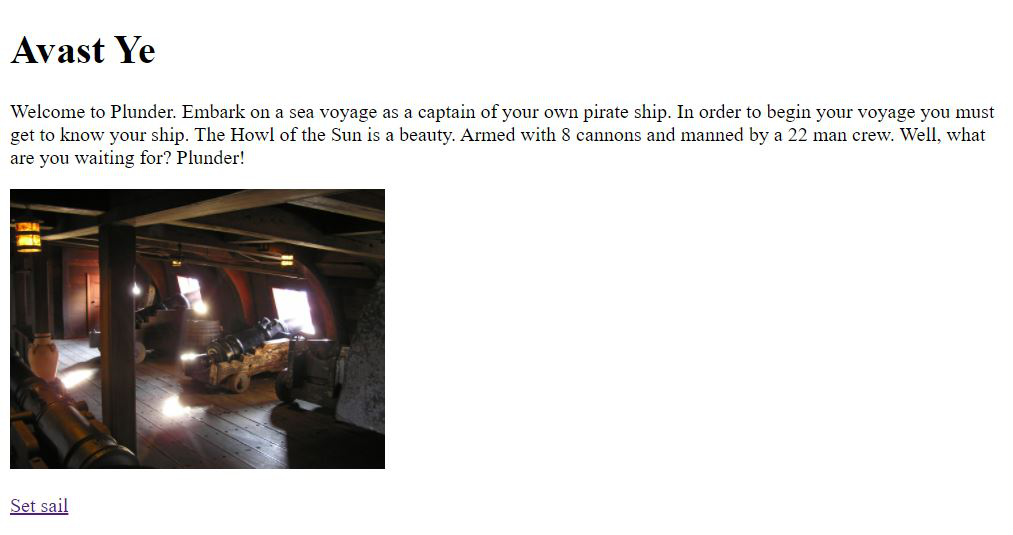
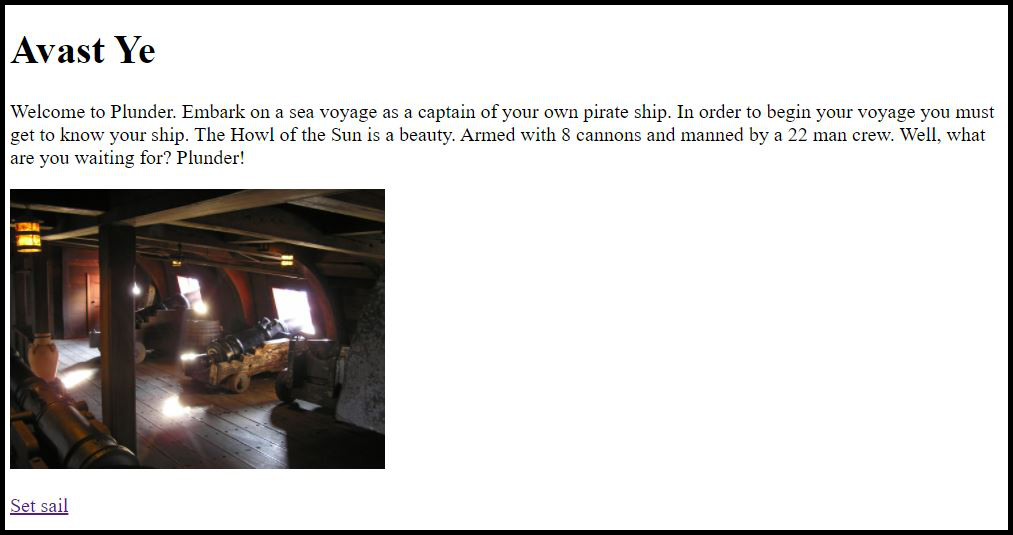
modifications to aesthetics and flow

Changed region(s): [[0.0, 0.0, 1.0, 1.0]]

diff --git a/3d.html b/3d.html
@@ -18,7 +18,7 @@
 </head>
 <body>
 
-<nav class="navbar navbar-expand-sm bg-light navbar-light">
+<nav class="navbar navbar-expand-sm bg-light navbar-light justify-content-center">
  <ul class="navbar-nav">
  	 	<li class="nav-item"><a class="nav-link" href="index.html">home</a></li>
 	<li class="nav-item"><a class="nav-link" href="glitchart.html">glitch</a></li>
@@ -32,19 +32,24 @@
 </head>
 <body>
 
+<div class="container my-5 bg-light shadow p-4 mb-4 bg-white">
+
 <h1>Extracted and Converted</h1>
 <p>Using Mineways, I extracted the build into a 3d file. Then using the Cura Ultimaker, I prepared and setup the 3d file for printing. The first draft print of the 3d sculpture utilized the Lulzbot Mini 2 3d printer, therefore I had to used the Cura Lulzbot edition. Final draft was printer using the Ultimaker 3 3d printer.
 </p>
 <p>
-<img class="img-fluid" src="images/3dlion.png" alt="3dleone" style="width:600px;">
-<img class="img-fluid" src="images/curalion.png" alt="ultimakercura" style="width:600px;">
+<img class="img-fluid" src="images/3dlion.png" alt="3dleone" style="height:300px;">
+<img class="img-fluid" src="images/curalion.png" alt="ultimakercura" style="height:300px;">
 </p>
 <h1>3d Print</h1>
 <p>After the first draft of printing, I made some adjustments and printed the final version.</p>
 <p>First Draft (Red) & Final Draft (Black).</p>
 <p>
-<img class="img-fluid" src="images/draft.jpg" alt="draft" style="width:600px;">
-<img class="img-fluid" src="images/final.jpg" alt="final" style="width:600px;">
+<img class="img-fluid" src="images/draft.jpg" alt="draft" style="height:300px;">
+<img class="img-fluid" src="images/final.jpg" alt="final" style="height:300px;">
+
+</div>
+
 </p>
 </body>
 </html>

diff --git a/glitchart.html b/glitchart.html
@@ -18,7 +18,7 @@
 </head>
 <body>
 
-<nav class="navbar navbar-expand-sm bg-light navbar-light">
+<nav class="navbar navbar-expand-sm bg-light navbar-light justify-content-center">
  <ul class="navbar-nav">
   	<li class="nav-item"><a class="nav-link" href="index.html">home</a></li>
 	<li class="nav-item"><a class="nav-link" href="glitchart.html">glitch</a></li>
@@ -32,20 +32,23 @@
 </head>
 <body>
 
+<div class="container my-5 bg-light shadow p-4 mb-4 bg-white">
+
 <h1>3 Final Glitch Art Images</h1>
 <p>Glitch images using Notepad ++ or Audacity.</p>
 <h1>Notepad ++ Glitches</h1>
 <p>Use Notepad ++ in order to modify the code of the .jpg image to create glitches into the picture. I made 2 art pieces utilizing this technique.</p>
 <p>
-<img class="img-fluid" src="images/fire.png" alt="fire" style="width:600px;">
-</p>
-<p>
-<img class="img-fluid" src="images/lake.png" alt="lake" style="width:600px;">
+<img class="img-fluid" src="images/fire.png" alt="fire" style="height:300px;">
+<img class="img-fluid" src="images/lake.png" alt="lake" style="height:300px;">
 </p>
 <h1>Audacity Glitch</h1>
 <p>Convert the .jpg file into a .raw file and import it into Audacity. Use the Audacity effects onto the .raw file then export it and convert it back into a .jpg file.</p>
 <p>
-<img class="img-fluid" src="images/treesglitch2.jpg" alt="trees" style="width:600px;">
+<img class="img-fluid" src="images/treesglitch2.jpg" alt="trees" style="height:300px;">
+
+</div>
+
 </p>
 </body>
 </html>

diff --git a/mememashup.html b/mememashup.html
@@ -18,7 +18,7 @@
 </head>
 <body>
 
-<nav class="navbar navbar-expand-sm bg-light navbar-light">
+<nav class="navbar navbar-expand-sm bg-light navbar-light justify-content-center">
  <ul class="navbar-nav">
  	<li class="nav-item"><a class="nav-link" href="index.html">home</a></li>
 	<li class="nav-item"><a class="nav-link" href="glitchart.html">glitch</a></li>
@@ -32,19 +32,24 @@
 </head>
 <body>
 
+<div class="container my-5 bg-light shadow p-4 mb-4 bg-white">
+
 <h1>Meme Mashup</h1>
 <p>Create a Meme Mashup utilizing 2 or more memes.</p>
 <h1>2 Source Memes</h1>
 <p>I used 2 memes for my Meme Mashup.</p>
 <p>Trade Deal Meme (Left Image) & I Am Altering the Deal Meme (Right Image).</p>
 <p>
-<img class="img-fluid" src="images/offer.jpg" alt="offer" style="width:300px;">
-<img class="img-fluid" src="images/vader.png" alt="vader" style="width:600px;">
+<img class="img-fluid" src="images/offer.jpg" alt="offer" style="height:300px;">
+<img class="img-fluid" src="images/vader.png" alt="vader" style="height:300px;">
 </p>
 <h1>Final Meme Mashup</h1>
 <p>Utilizing the 2 memes above and a topic of road work, I created this Meme Mashup that repurposes the memes and creates a new meaning.</p>
 <p>
-<img class="img-fluid" src="images/mashup.png" alt="meme mashup" style="width:300px;">
+<img class="img-fluid" src="images/mashup.png" alt="meme mashup" style="height:300px;">
+
+</div>
+
 </p>
 </body>
 </html>

diff --git a/minecraft.html b/minecraft.html
@@ -18,7 +18,7 @@
 </head>
 <body>
 
-<nav class="navbar navbar-expand-sm bg-light navbar-light">
+<nav class="navbar navbar-expand-sm bg-light navbar-light justify-content-center">
  <ul class="navbar-nav">
  	<li class="nav-item"><a class="nav-link" href="index.html">home</a></li>
 	<li class="nav-item"><a class="nav-link" href="glitchart.html">glitch</a></li>
@@ -32,17 +32,22 @@
 </head>
 <body>
 
+<div class="container my-5 bg-light shadow p-4 mb-4 bg-white">
+
 <h1>Minecraft</h1>
 <p>Use Minecraft to create a 3d object, extract it, and 3d print it.</p>
 <h1>Minecraft Sculpture</h1>
 <p>I built the Lion of Saint Mark, a important object to my heritage and culture. Built fully in Minecraft.</p>
 <p>
-<img class="img-fluid" src="images/lion.jpg" alt="lion" style="width:600px;">
-<img class="img-fluid" src="images/leoneminecraft.png" alt="leoneminecraft" style="width:600px;">
+<img class="img-fluid" src="images/lion.jpg" alt="lion" style="height:300px;">
+<img class="img-fluid" src="images/leoneminecraft.png" alt="leoneminecraft" style="height:300px;">
 </p>
 <h1>First Night</h1>
 <p>This is a screenshot of the base I had for the first night.</p>
 <p>
-<img class="img-fluid" src="images/firstnight.png" alt="lion" style="width:600px;">
+<img class="img-fluid" src="images/firstnight.png" alt="lion" style="height:300px;">
+
+</div>
+
 </body>
 </html>

diff --git a/index.html b/index.html
@@ -18,7 +18,7 @@
 </head>
 <body>
 
-<nav class="navbar navbar-expand-sm bg-light navbar-light">
+<nav class="navbar navbar-expand-sm bg-light navbar-light justify-content-center">
  <ul class="navbar-nav">
  	<li class="nav-item"><a class="nav-link" href="index.html">home</a></li>
 	<li class="nav-item"><a class="nav-link" href="glitchart.html">glitch</a></li>
@@ -29,10 +29,15 @@
 </ul> 
 </nav>
 
-<h1>Welcome to my Portfolio</h1>
-<p>Click the tabs above to navigate to art pieces I made</p>
-<h1>About Me</h1>
-<p>I am a student at SJSU</p>
+<div class="container my-5 bg-light shadow p-4 mb-4 bg-white">
+
+	<h1>Welcome to my Portfolio</h1>
+	<p>Click the tabs above to navigate to art pieces I made</p>
+	<img class="img-fluid" src="images/welcome.jpg" alt="welcome" style="height:300px;">
+	<h1>About Me</h1>
+	<p>I am a student at SJSU</p>
+
+</div>
 
 </body>
 </html>

diff --git a/10pagenetart.html b/10pagenetart.html
@@ -18,7 +18,7 @@
 </head>
 <body>
 
-<nav class="navbar navbar-expand-sm bg-light navbar-light">
+<nav class="navbar navbar-expand-sm bg-light navbar-light justify-content-center">
  <ul class="navbar-nav">
   	<li class="nav-item"><a class="nav-link" href="index.html">home</a></li>
 	<li class="nav-item"><a class="nav-link" href="glitchart.html">glitch</a></li>
@@ -32,11 +32,16 @@
 </head>
 <body>
 
+<div class="container my-5 bg-light shadow p-4 mb-4 bg-white">
+
 <h1> Welcome to the Plunder Gateway</h1>
-<p>Click on the image below to play plunder</p>
+<p>Click on the image below to play Plunder</p>
 <p>
 <a href="10page/index.html">
-	<img class="img-fluid" src="images/plunderpage.png" alt="gateway" style="width:600px;">
+	<img class="img-fluid" src="images/plunderpage.png" alt="gateway" style="height:300px;">
+	
+</div>
+	
 </a>
 </p>
 </body>
